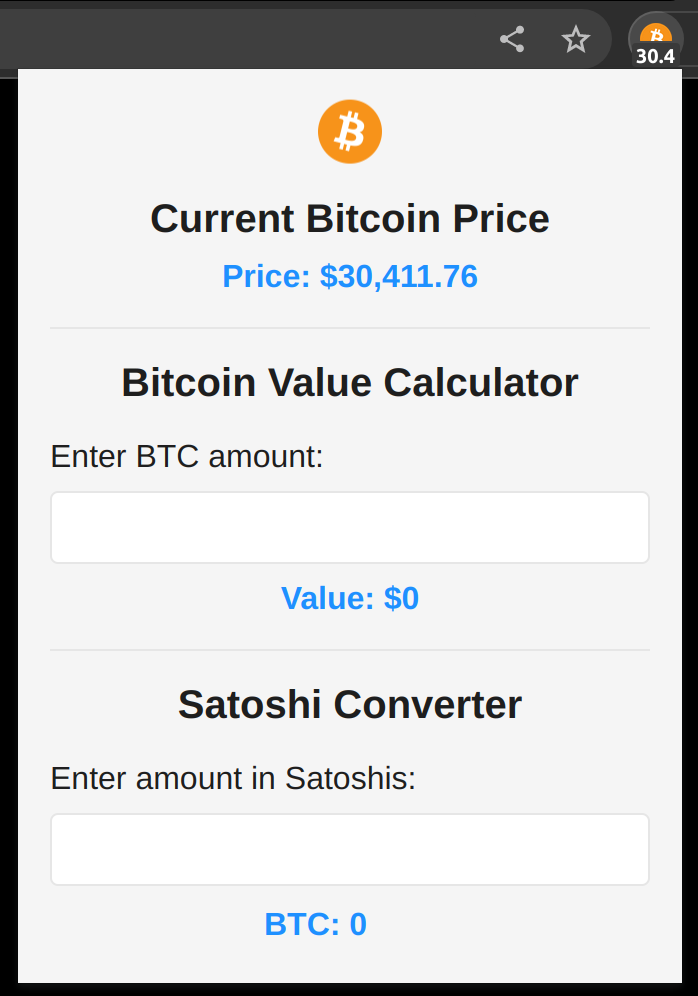
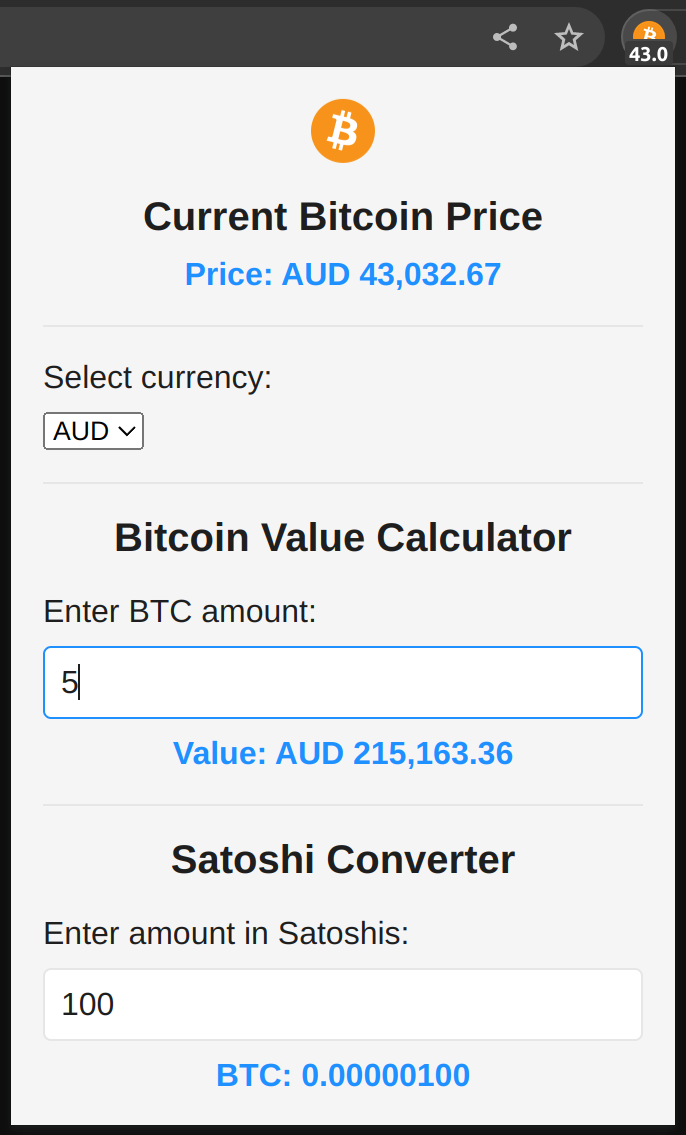
Added Value Storage & Currency Selection

diff --git a/popup.js b/popup.js
@@ -1,52 +1,103 @@
 let currentPrice = 0;
+let selectedCurrency = "USD";
 
-// Get the current Bitcoin price from the background script
 function getPrice() {
-  chrome.runtime.sendMessage({ action: "getCurrentPrice" }, (response) => {
+  chrome.runtime.sendMessage({ action: "getCurrentPrice", currency: selectedCurrency }, (response) => {
     currentPrice = response.price;
     document.getElementById(
       "currentPrice"
-    ).textContent = `Price: $${currentPrice.toLocaleString(undefined, {
+    ).textContent = `Price: ${selectedCurrency} ${currentPrice.toLocaleString(undefined, {
       minimumFractionDigits: 2,
       maximumFractionDigits: 2,
     })}`;
-    calculateBtcValue(); // Update the BTC value whenever the price is updated
+    calculateBtcValue();
   });
 }
 
-getPrice();
-
-// Calculate the value of a specific amount of Bitcoin
-function calculateBtcValue() {
-  const btcAmount = parseFloat(document.getElementById("btcAmount").value);
-  if (isNaN(btcAmount)) {
-    document.getElementById("btcValue").textContent = "Value: $0";
-    return;
-  }
-  const value = btcAmount * currentPrice;
-  document.getElementById(
-    "btcValue"
-  ).textContent = `Value: $${value.toLocaleString(undefined, {
-    minimumFractionDigits: 2,
-    maximumFractionDigits: 2,
-  })}`;
+function saveToStorage(key, value) {
+  chrome.storage.local.set({ [key]: value });
 }
 
-// Convert Satoshis to Bitcoin and vice versa
+function loadFromStorage(key, callback) {
+  chrome.storage.local.get([key], (result) => {
+    callback(result[key]);
+  });
+}
+
+function onCurrencyChange() {
+  selectedCurrency = getSelectedCurrency();
+  saveToStorage("selectedCurrency", selectedCurrency);
+  chrome.runtime.sendMessage({ action: "setSelectedCurrency", currency: selectedCurrency });
+  getPrice();
+}
+
+document.addEventListener("DOMContentLoaded", () => {
+  loadFromStorage("selectedCurrency", (currency) => {
+    if (currency) {
+      selectedCurrency = currency;
+      document.getElementById("currency").value = selectedCurrency;
+    }
+    getPrice(); // Move this line inside this callback function
+  });
+
+  loadFromStorage("btcAmount", (btcAmount) => {
+    if (btcAmount) {
+      document.getElementById("btcAmount").value = btcAmount;
+      calculateBtcValue();
+    }
+  });
+
+  loadFromStorage("satsAmount", (satsAmount) => {
+    if (satsAmount) {
+      document.getElementById("satsAmount").value = satsAmount;
+      convertSats();
+    }
+  });
+
+  document
+    .getElementById("btcAmount")
+    .addEventListener("input", calculateBtcValue);
+  document.getElementById("satsAmount").addEventListener("input", convertSats);
+  document
+    .getElementById("currency")
+    .addEventListener("change", onCurrencyChange);
+});
+
+function calculateBtcValue() {
+  const btcAmount = parseFloat(
+    document.getElementById("btcAmount").value.replace(",", ".")
+  );
+  if (isNaN(btcAmount)) {
+    document.getElementById("btcValue").textContent = "Value: Invalid input";
+  } else {
+    saveToStorage("btcAmount", btcAmount);
+    const value = btcAmount * currentPrice;
+    document.getElementById(
+      "btcValue"
+    ).textContent = `Value: ${selectedCurrency} ${value.toLocaleString(undefined, {
+      minimumFractionDigits: 2,
+      maximumFractionDigits: 2,
+    })}`;
+  }
+}
+
 function convertSats() {
   const satsAmount = parseInt(document.getElementById("satsAmount").value);
   if (isNaN(satsAmount)) {
-    document.getElementById("satsToBtc").textContent = "BTC: 0";
-    return;
+    document.getElementById("satsToBtc").textContent = "BTC: Invalid input";
+  } else {
+    saveToStorage("satsAmount", satsAmount);
+    const btc = satsAmount / 100000000;
+    document.getElementById("satsToBtc").textContent = `BTC: ${btc.toLocaleString(undefined, {
+      minimumFractionDigits: 8,
+      maximumFractionDigits: 8,
+    })}`;
   }
-  const btcAmount = (satsAmount / 100000000).toFixed(8);
-  document.getElementById("satsToBtc").textContent = `BTC: ${btcAmount}`;
 }
 
-// Add event listeners to the input elements
-document
-  .getElementById("btcAmount")
-  .addEventListener("input", calculateBtcValue);
-document.getElementById("satsAmount").addEventListener("input", convertSats);
+function getSelectedCurrency() {
+  const currencyElement = document.getElementById("currency");
+  return currencyElement ? currencyElement.value : "USD";
+}
 
 setInterval(getPrice, 1000); // Poll the background script for updates every second

diff --git a/sw.js b/sw.js
@@ -1,3 +1,5 @@
+let selectedCurrency = "USD";
+
 function formatBadgeText(price) {
   if (price >= 10000) {
     return (price / 1000).toFixed(1);
@@ -7,39 +9,54 @@ function formatBadgeText(price) {
 
 let currentPrice = 0;
 
-async function fetchBitcoinPrice() {
+async function fetchBitcoinPrice(currency) {
   try {
+    if (!currency) {
+      currency = "USD";
+    }
     const response = await fetch(
-      "https://api.coindesk.com/v1/bpi/currentprice/BTC.json"
+      `https://api.coindesk.com/v1/bpi/currentprice/${currency}.json`
     );
     const data = await response.json();
-    currentPrice = parseFloat(data.bpi.USD.rate.replace(",", ""));
+    currentPrice = parseFloat(data.bpi[currency].rate.replace(",", ""));
     const badgeText = formatBadgeText(currentPrice);
-    chrome.action.setBadgeText({ text: badgeText }); // Display the formatted price as badge text
-    chrome.action.setBadgeBackgroundColor({ color: "#3A3A3A" }); // Set badge background color
+    chrome.action.setBadgeText({ text: badgeText });
+    chrome.action.setBadgeBackgroundColor({ color: "#3A3A3A" });
   } catch (error) {
     console.error("Error fetching Bitcoin price:", error);
   }
 }
 
-// Fetch Bitcoin price and update the badge text
-function updateBadge() {
-  fetchBitcoinPrice();
+function updateBadge(currency) {
+  fetchBitcoinPrice(currency);
   chrome.alarms.create("fetchBitcoinPrice", { periodInMinutes: 1 });
 }
 
-// Add an event listener for when the alarm fires
 chrome.alarms.onAlarm.addListener((alarm) => {
   if (alarm.name === "fetchBitcoinPrice") {
-    fetchBitcoinPrice();
+    fetchBitcoinPrice(selectedCurrency);
   }
 });
 
 chrome.runtime.onMessage.addListener((request, sender, sendResponse) => {
   if (request.action === "getCurrentPrice") {
+    selectedCurrency = request.currency;
+    fetchBitcoinPrice(selectedCurrency);
     sendResponse({ price: currentPrice });
   }
 });
 
-// Initialize the badge when the extension is loaded
-updateBadge();
+function loadSelectedCurrencyFromStorage(callback) {
+  chrome.storage.local.get(["selectedCurrency"], (result) => {
+    if (result.selectedCurrency) {
+      selectedCurrency = result.selectedCurrency;
+      callback(selectedCurrency);
+    } else {
+      callback(selectedCurrency);
+    }
+  });
+}
+
+loadSelectedCurrencyFromStorage((selectedCurrency) => {
+  updateBadge(selectedCurrency);
+});

diff --git a/popup.html b/popup.html
@@ -115,6 +115,17 @@
     <h3>Current Bitcoin Price</h3>
     <p id="currentPrice">Price: $0 <span class="btc-icon"></span></p>
     <hr />
+    <label for="currency">Select currency:</label>
+    <select id="currency">
+      <option value="USD">USD</option>
+      <option value="CAD">CAD</option>
+      <option value="AUD">AUD</option>
+      <option value="NZD">NZD</option>
+      <option value="EUR">EUR</option>
+      <option value="GBP">GBP</option>
+      <!-- Add more currencies as needed -->
+    </select>
+    <hr />
     <h3>Bitcoin Value Calculator</h3>
     <label for="btcAmount">Enter BTC amount:</label>
     <input
@@ -129,6 +140,6 @@
     <label for="satsAmount">Enter amount in Satoshis:</label>
     <input type="text" id="satsAmount" inputmode="numeric" pattern="[0-9]*" />
     <p id="satsToBtc">BTC: 0 <span class="satoshi-icon"></span></p>
-    <script src="popup.js"></script>
+    <script src="popup.js" defer></script>
   </body>
 </html>
